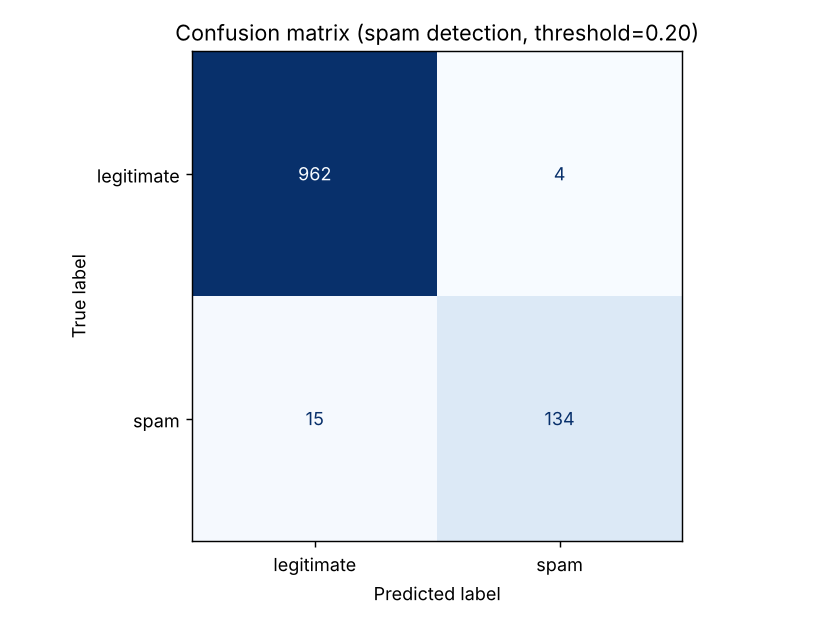
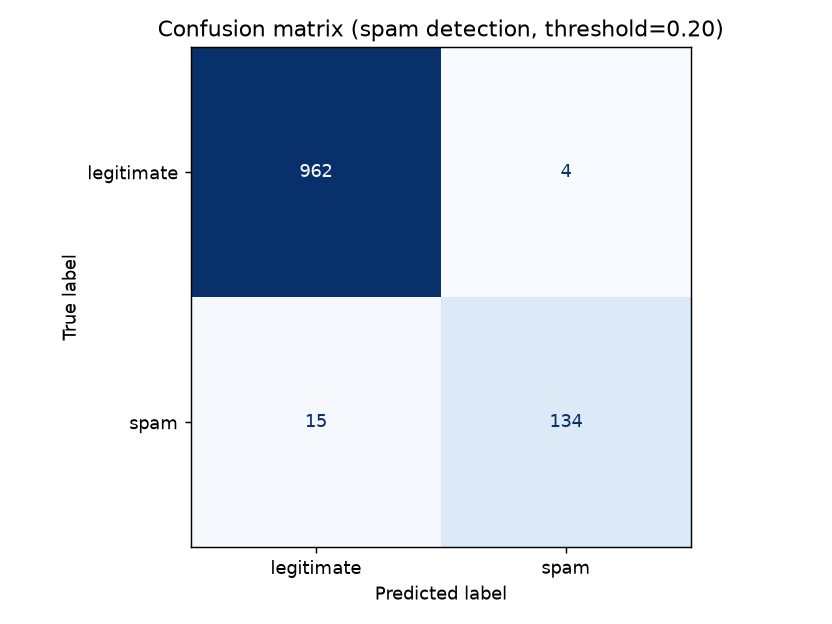
added logistic regresion for evaluation

diff --git a/evaluate.py b/evaluate.py
@@ -1,0 +1,90 @@
+
+from pathlib import Path
+
+import numpy as np
+from sklearn.feature_extraction.text import TfidfVectorizer
+from sklearn.linear_model import LogisticRegression
+from sklearn.model_selection import (
+    StratifiedKFold,
+    cross_validate,
+    train_test_split,
+)
+from sklearn.naive_bayes import MultinomialNB
+from sklearn.pipeline import Pipeline
+
+from train import DATA_FILE, RESULTS_DIR, load_data
+
+
+def tfidf() -> TfidfVectorizer:
+    """Shared TF-IDF settings so models differ only in the classifier."""
+    return TfidfVectorizer(
+        lowercase=True, stop_words="english", ngram_range=(1, 2), min_df=2
+    )
+
+
+def candidates() -> dict:
+    return {
+        "Multinomial NB": Pipeline(
+            [("tfidf", tfidf()), ("clf", MultinomialNB())]
+        ),
+        "Logistic Regression": Pipeline(
+            [
+                ("tfidf", tfidf()),
+                (
+                    "clf",
+                    LogisticRegression(
+                        max_iter=1000, class_weight="balanced"
+                    ),
+                ),
+            ]
+        ),
+    }
+
+
+def main() -> None:
+    RESULTS_DIR.mkdir(exist_ok=True)
+
+    df = load_data(DATA_FILE)
+    X_train, _X_test, y_train, _y_test = train_test_split(
+        df["message"],
+        df["target"],
+        test_size=0.20,
+        random_state=42,
+        stratify=df["target"],
+    )
+
+    cv = StratifiedKFold(n_splits=5, shuffle=True, random_state=42)
+    
+    # precision/recall/f1 default to the positive class (spam == 1).
+    scoring = ["accuracy", "precision", "recall", "f1"]
+
+    header = (
+        f"{'Model':<22}{'accuracy':>16}{'precision':>16}"
+        f"{'recall':>16}{'f1':>16}"
+    )
+    lines = [
+        "Model comparison - stratified 5-fold CV on the training split",
+        "Spam is the positive class; values are mean +/- std across folds.",
+        "",
+        header,
+        "-" * len(header),
+    ]
+
+    for name, model in candidates().items():
+        res = cross_validate(model, X_train, y_train, cv=cv, scoring=scoring)
+        cells = [f"{name:<22}"]
+        for metric in ["accuracy", "precision", "recall", "f1"]:
+            scores = res[f"test_{metric}"]
+            cells.append(f"{scores.mean():.3f}+/-{scores.std():.3f}".rjust(16))
+        lines.append("".join(cells))
+
+    table = "\n".join(lines)
+    print(table)
+
+    out = RESULTS_DIR / "model_comparison.txt"
+    out.write_text(table + "\n", encoding="utf-8")
+    print(f"\nSaved comparison to {out}")
+
+
+if __name__ == "__main__":
+    main()
